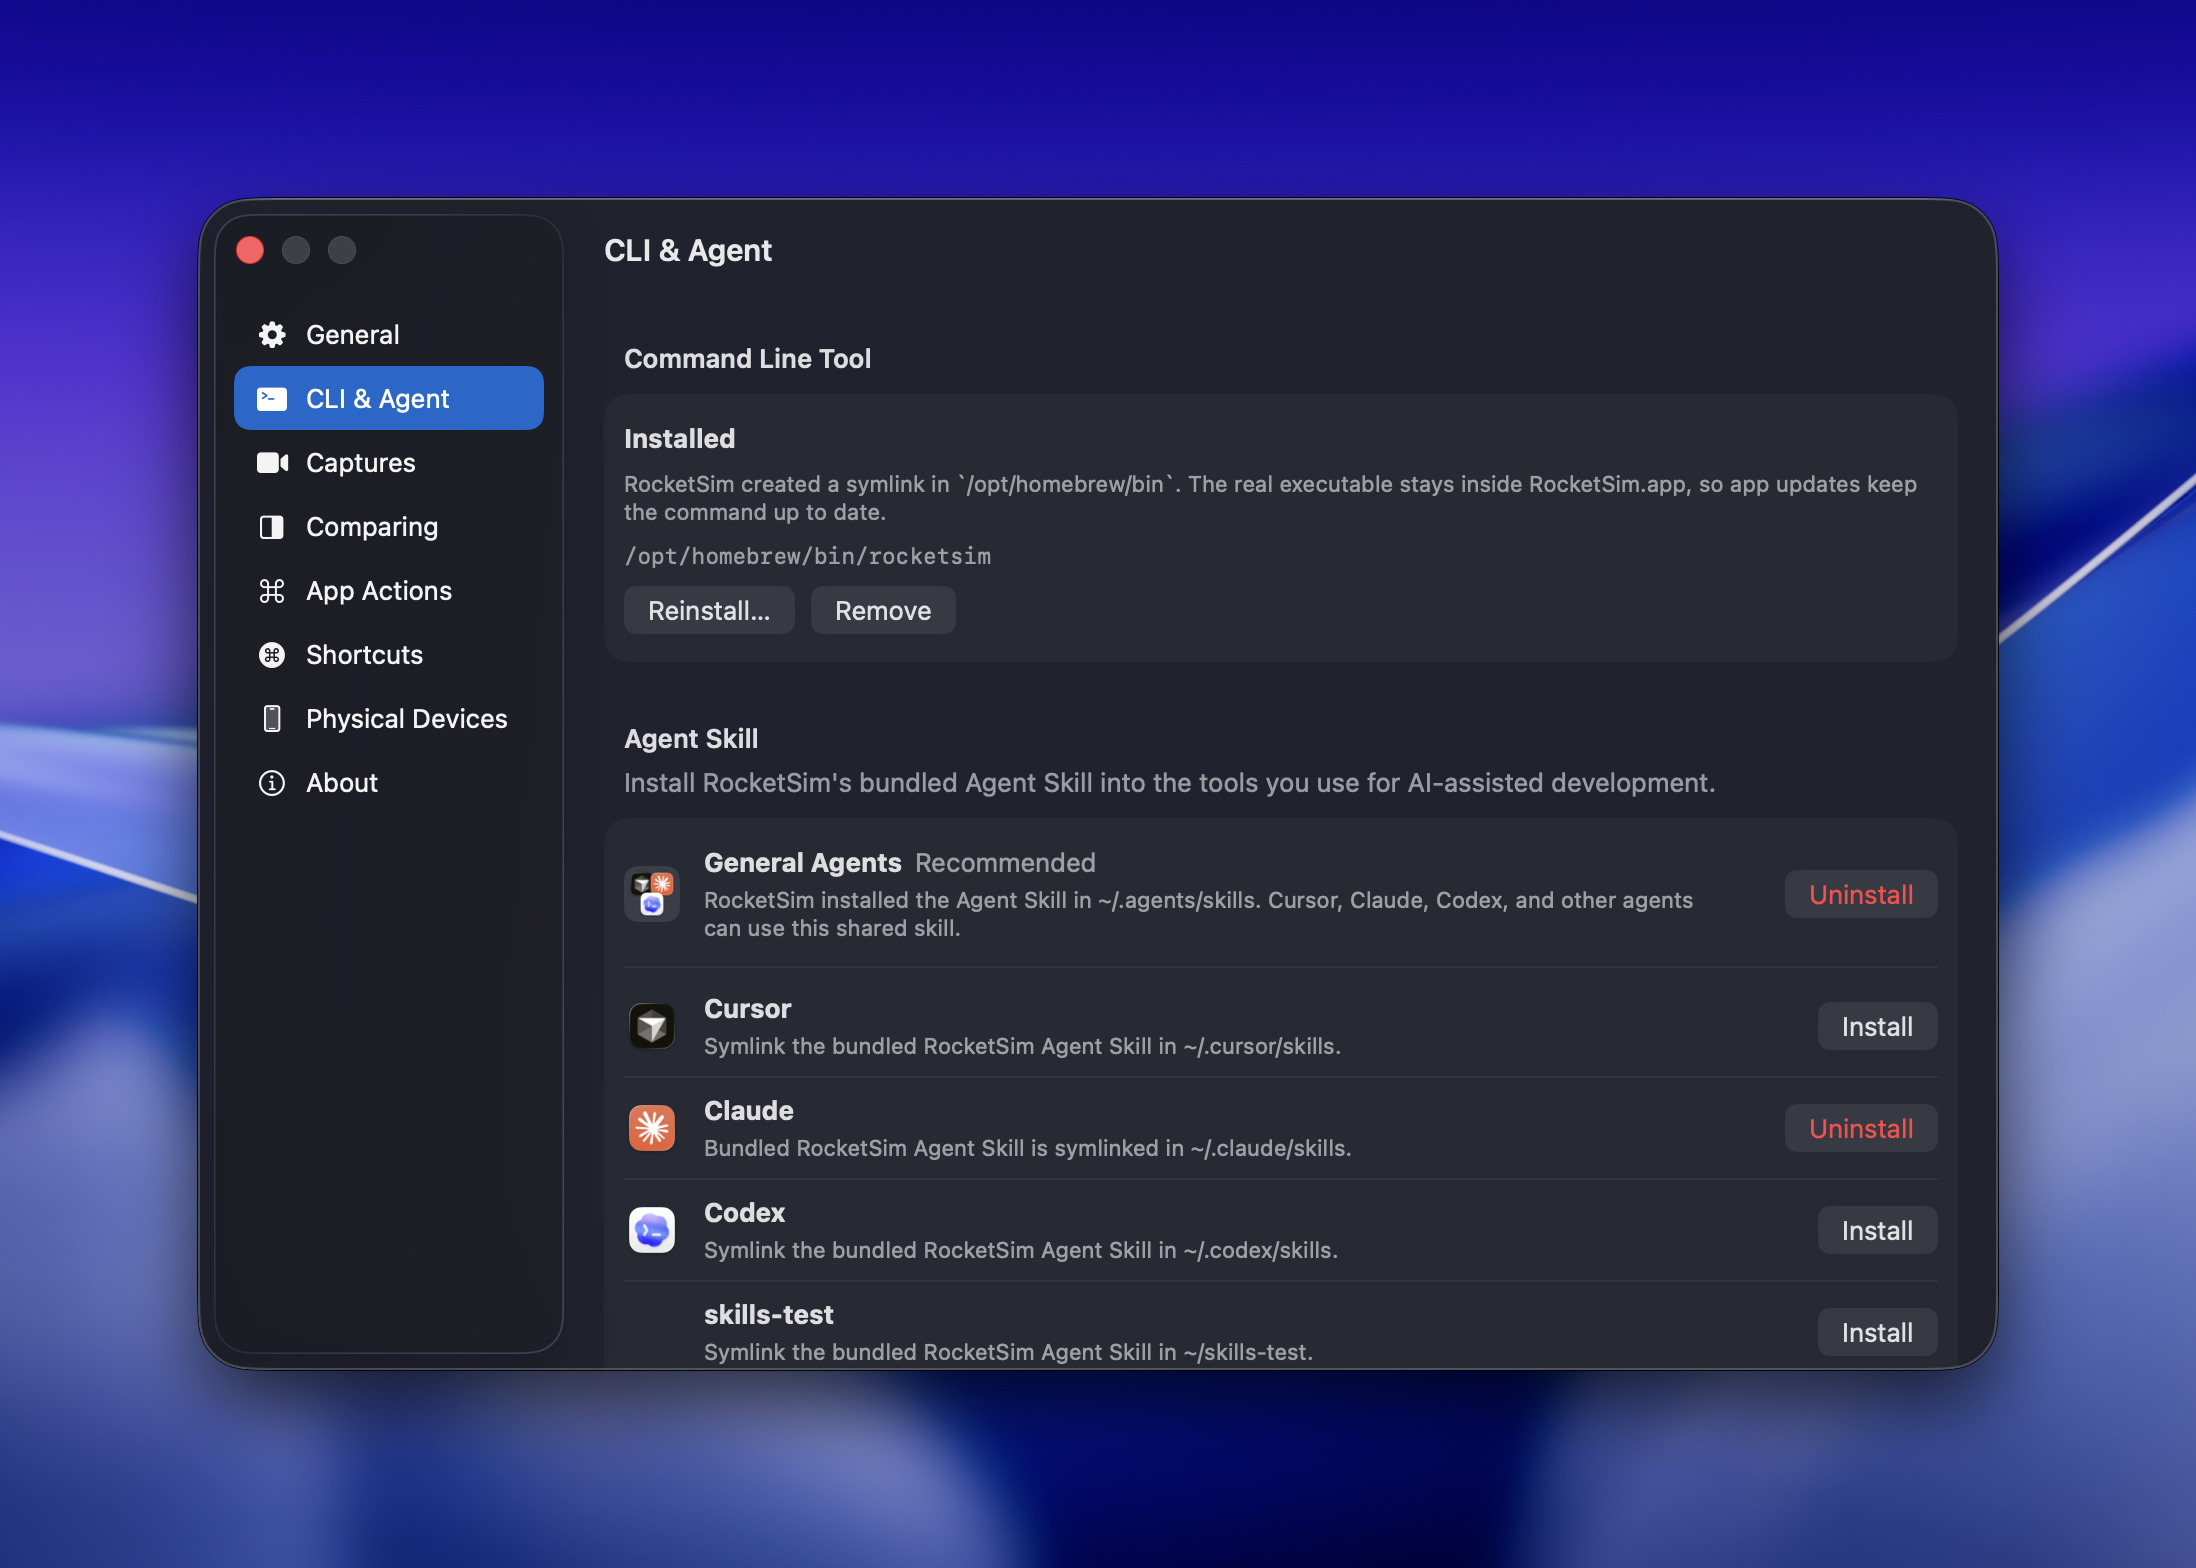
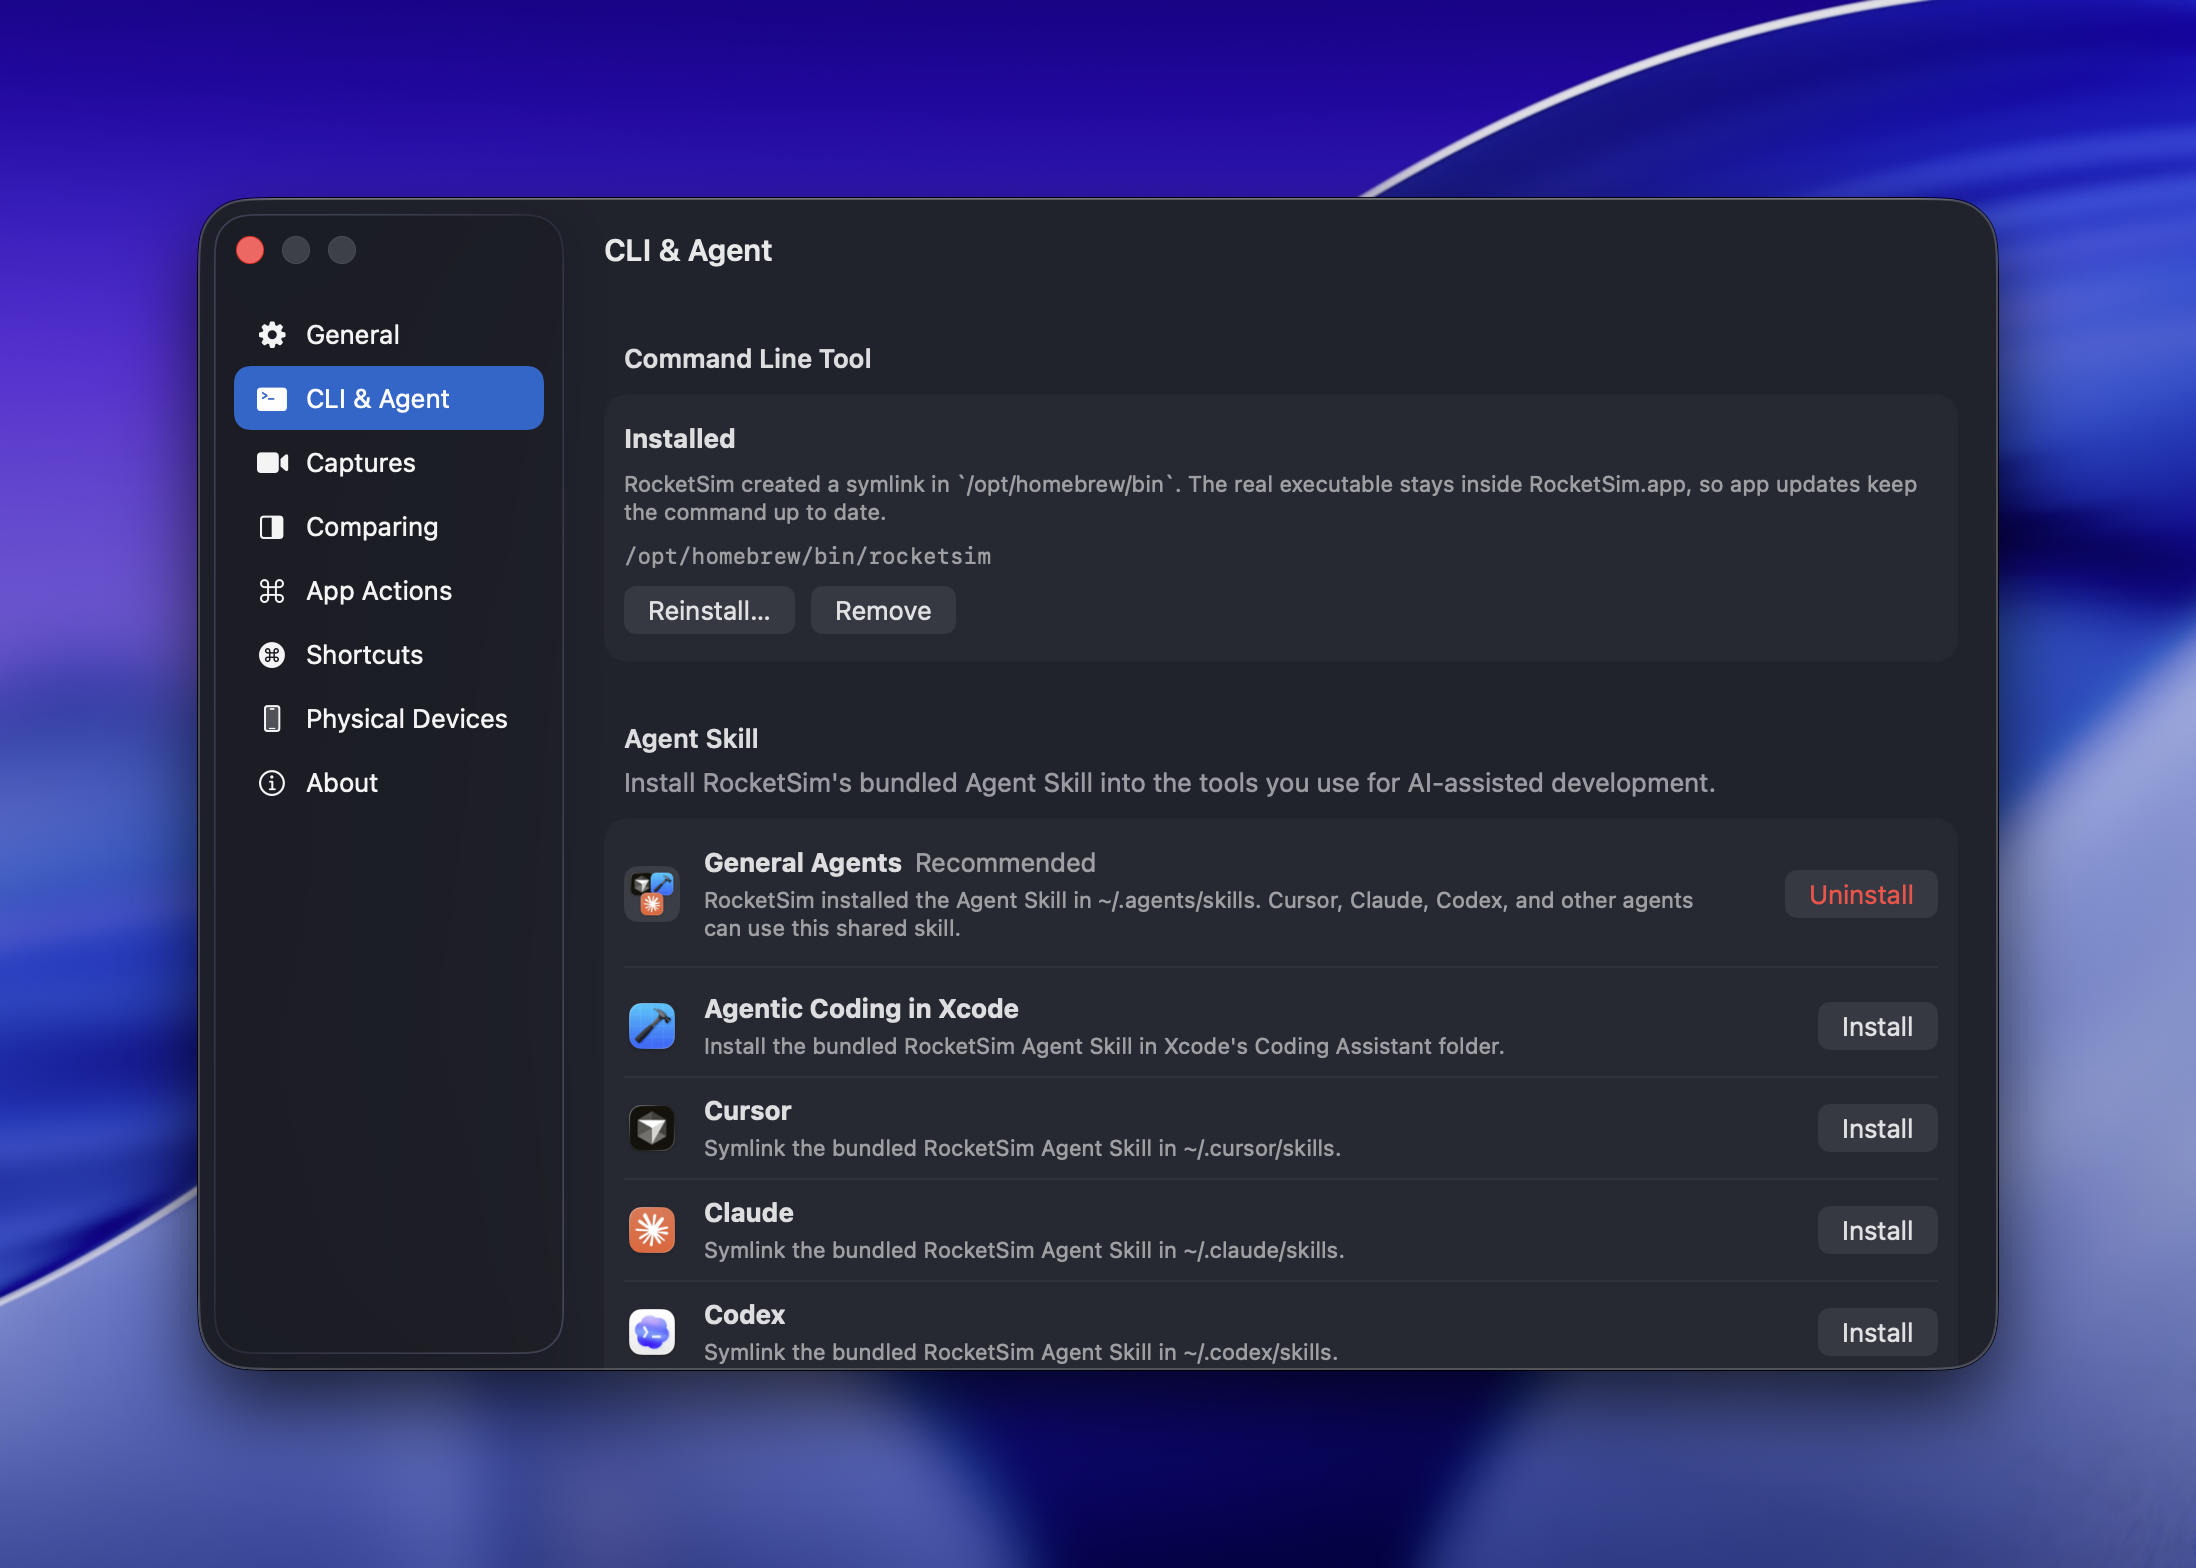
Merge pull request #1016 from AvdLee/docs/xcode-agent-skill-install
Document Xcode agent skill install flow

Pull request: Document Xcode agent skill install flow
## Summary
- Documents the Agentic Coding in Xcode skill install option for Xcode's built-in coding assistant.
- Clarifies that the RocketSim CLI operates on already-running Simulator apps and does not build, install, or launch from source.
- Updates CLI & Agent screenshots with the current settings UI.

## Test plan
- `npm run lint`
- `npm run format:check`
- `npm run typecheck`
- `npm run build`
- `npm run knip`

diff --git a/docs/src/content/docs/docs/settings/cli-and-agent.md b/docs/src/content/docs/docs/settings/cli-and-agent.md
@@ -31,7 +31,7 @@ The Agent Skill is installed from the same settings page.
 
 1. Open **RocketSim → Settings → CLI & Agent**
 2. Install the command line tool first if it is not installed yet
-3. In **Agent Skill**, choose **General Agents**
+3. In **Agent Skill**, choose **General Agents** for broad support or **Agentic Coding in Xcode** for Xcode's built-in coding assistant
 4. Click **Install**
 5. Restart or refresh your tool if it does not detect new skills automatically
 
@@ -39,7 +39,11 @@ RocketSim installs the skill as a symlink to the bundled skill inside the app. T
 
 ![CLI & Agent settings showing Agent Skill installation options](./cli-and-agent/cli-agent-settings.png)
 
-We recommend **General Agents** because it installs into the shared `.agents/skills` location. Multiple AI coding tools can reuse that same version-matched RocketSim skill. Use a tool-specific destination only if your tool does not scan the shared location.
+We recommend **General Agents** because it installs into the shared `.agents/skills` location. Multiple AI coding tools can reuse that same version-matched RocketSim skill.
+
+Use **Agentic Coding in Xcode** when you want Xcode's built-in Claude Agent or Codex integration to discover RocketSim. Xcode stores coding assistant configuration under `~/Library/Developer/Xcode/CodingAssistant`, separate from Claude Code's `~/.claude/skills` folder.
+
+Use a tool-specific destination only if your tool does not scan the shared location.
 
 ## Why this setup is recommended
 
@@ -76,6 +80,8 @@ The existing `rocketsim` symlink points somewhere unexpected. Click **Repair Com
 ### My agent does not see the skill
 
 Some AI coding tools only scan skill folders when they start. Restart the tool or reload its workspace after installing the skill.
+
+If you are using Claude Agent inside Xcode, install **Agentic Coding in Xcode** instead of the **Claude** destination. The **Claude** row installs into `~/.claude/skills`, while Xcode's built-in coding assistant reads from its own `~/Library/Developer/Xcode/CodingAssistant` configuration folders.
 
 ### I use a custom skill folder
 

diff --git a/docs/src/content/docs/docs/features/agentic-development/agent-skill.md b/docs/src/content/docs/docs/features/agentic-development/agent-skill.md
@@ -28,7 +28,7 @@ In our internal research, RocketSim's CLI completed the same agent workflows abo
 
 1. Open **RocketSim → Settings → CLI & Agent**
 2. Install the **Command Line Tool** if `rocketsim` is not on your `PATH` yet
-3. In **Agent Skill**, choose **General Agents**
+3. In **Agent Skill**, choose **General Agents** for broad support or **Agentic Coding in Xcode** for Xcode's built-in coding assistant
 4. Click **Install** or **Repair**
 5. Restart or refresh your AI coding tool if it does not discover new skills automatically
 
@@ -39,6 +39,8 @@ RocketSim installs the skill as a symlink to the bundled skill inside `RocketSim
 ## Supported destinations
 
 We recommend **General Agents** for most setups. It installs the skill into the shared `.agents/skills` location, so multiple AI coding tools can use the same version-matched RocketSim skill instead of each tool needing its own copy.
+
+Choose **Agentic Coding in Xcode** when you use Xcode's built-in Claude Agent or Codex integration. Xcode keeps its coding assistant configuration in `~/Library/Developer/Xcode/CodingAssistant`, separate from Claude Code's `~/.claude/skills` folder. Restart Xcode after installing or repairing this destination.
 
 Use a tool-specific destination like **Cursor**, **Claude**, or **Codex** if that tool only scans its own skill folder. You can also choose a custom skill folder if your tool stores skills somewhere else.
 
@@ -73,7 +75,7 @@ Then open your AI coding tool and try:
 
 > Use RocketSim to navigate through `<your_app_name>` in the Simulator
 
-If the skill is installed and RocketSim is running, the agent should detect RocketSim, read the visible UI, and start interacting with the app based on what is on screen.
+If the skill is installed, RocketSim is running, and your app is already open in the Simulator, the agent should detect RocketSim, read the visible UI, and start interacting with the app based on what is on screen.
 
 ## Learn more
 

diff --git a/docs/src/content/docs/docs/features/agentic-development/index.md b/docs/src/content/docs/docs/features/agentic-development/index.md
@@ -7,6 +7,8 @@ sidebar:
 
 RocketSim helps AI coding agents see and interact with your running Simulator app. The RocketSim Mac app stays connected to the Simulator, keeps useful state warm, and exposes a compact CLI that agents can use to inspect screens, tap controls, type text, and verify UI changes.
 
+RocketSim does not build, install, or launch your app from source. Start the app with Xcode or your normal build tooling first, then use RocketSim for fast Simulator inspection and interaction.
+
 With the RocketSim Agent Skill installed from **Settings → CLI & Agent**, your agent can:
 
 - Read visible accessibility elements, including common navigation and tab bar items
@@ -25,7 +27,7 @@ Ask your agent to move through multi-step flows like onboarding, login, settings
 
 ### Validate UI after code changes
 
-After making a code change, ask your agent to launch the app, navigate to the relevant screen, and verify that the expected elements are visible. This is faster than switching to the Simulator yourself to check.
+After making a code change, launch the app from Xcode or ask your agent to use your normal build tooling. Once the app is running, ask the agent to navigate to the relevant screen with RocketSim and verify that the expected elements are visible. This is faster than switching to the Simulator yourself to check.
 
 ### Reproduce bugs in context
 

diff --git a/docs/src/content/docs/docs/features/agentic-development/rocketsim-cli.md b/docs/src/content/docs/docs/features/agentic-development/rocketsim-cli.md
@@ -9,6 +9,8 @@ RocketSim includes a built-in CLI that lets agents inspect visible UI and intera
 
 For agentic development, we recommend installing both the CLI and [RocketSim Agent Skill](/docs/features/agentic-development/agent-skill) from **RocketSim → Settings → CLI & Agent**.
 
+The CLI works with the Simulator UI that is already running. It does not build, install, or launch apps from an Xcode project; use Xcode or your normal build tooling for that step, then let RocketSim inspect and interact with the app on screen.
+
 ## Installing the CLI
 
 1. Open **RocketSim → Settings → CLI & Agent**
@@ -210,7 +212,7 @@ These prompts work well with the CLI interaction loop:
 
 > Use RocketSim to type a search query into the search field and select the first result
 
-> Use RocketSim to press the home button and relaunch the app
+> Use RocketSim to press the home button, then inspect the Simulator after the app is open again
 
 ## Requirements
 